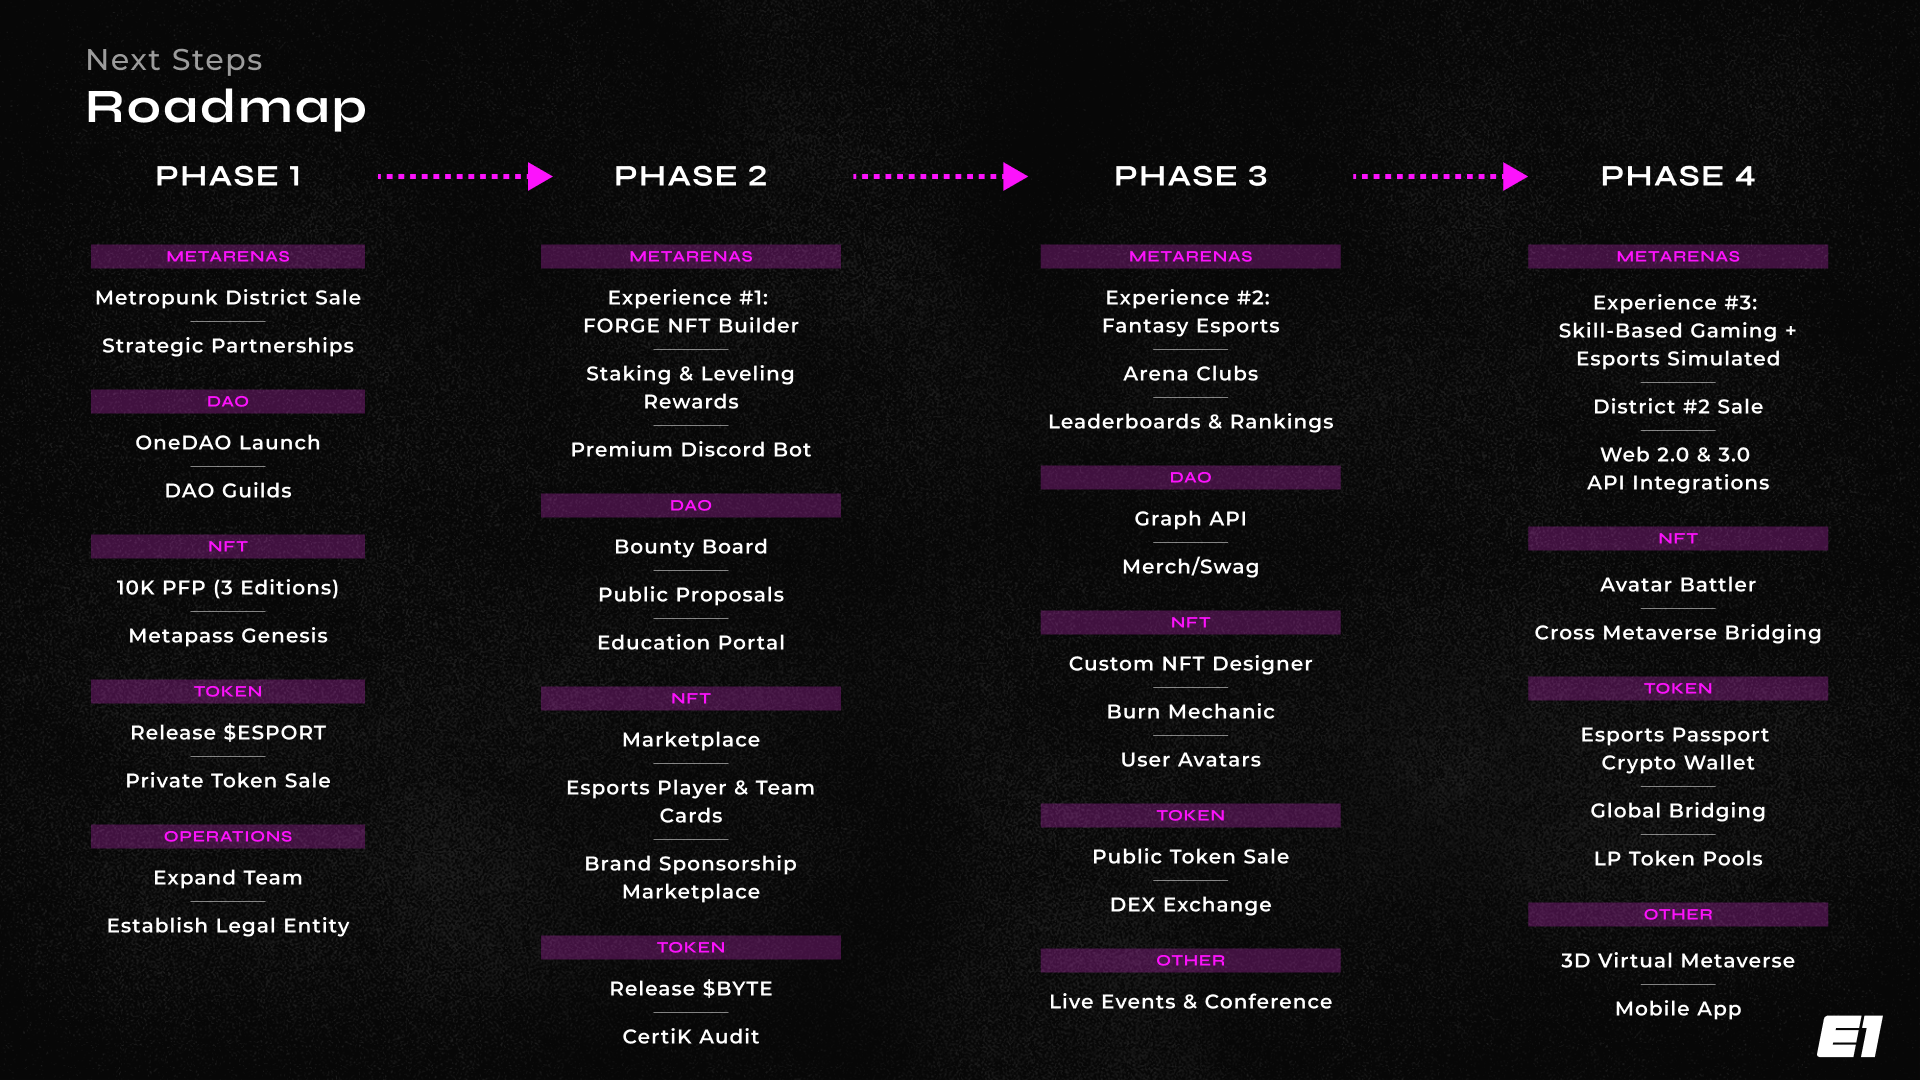
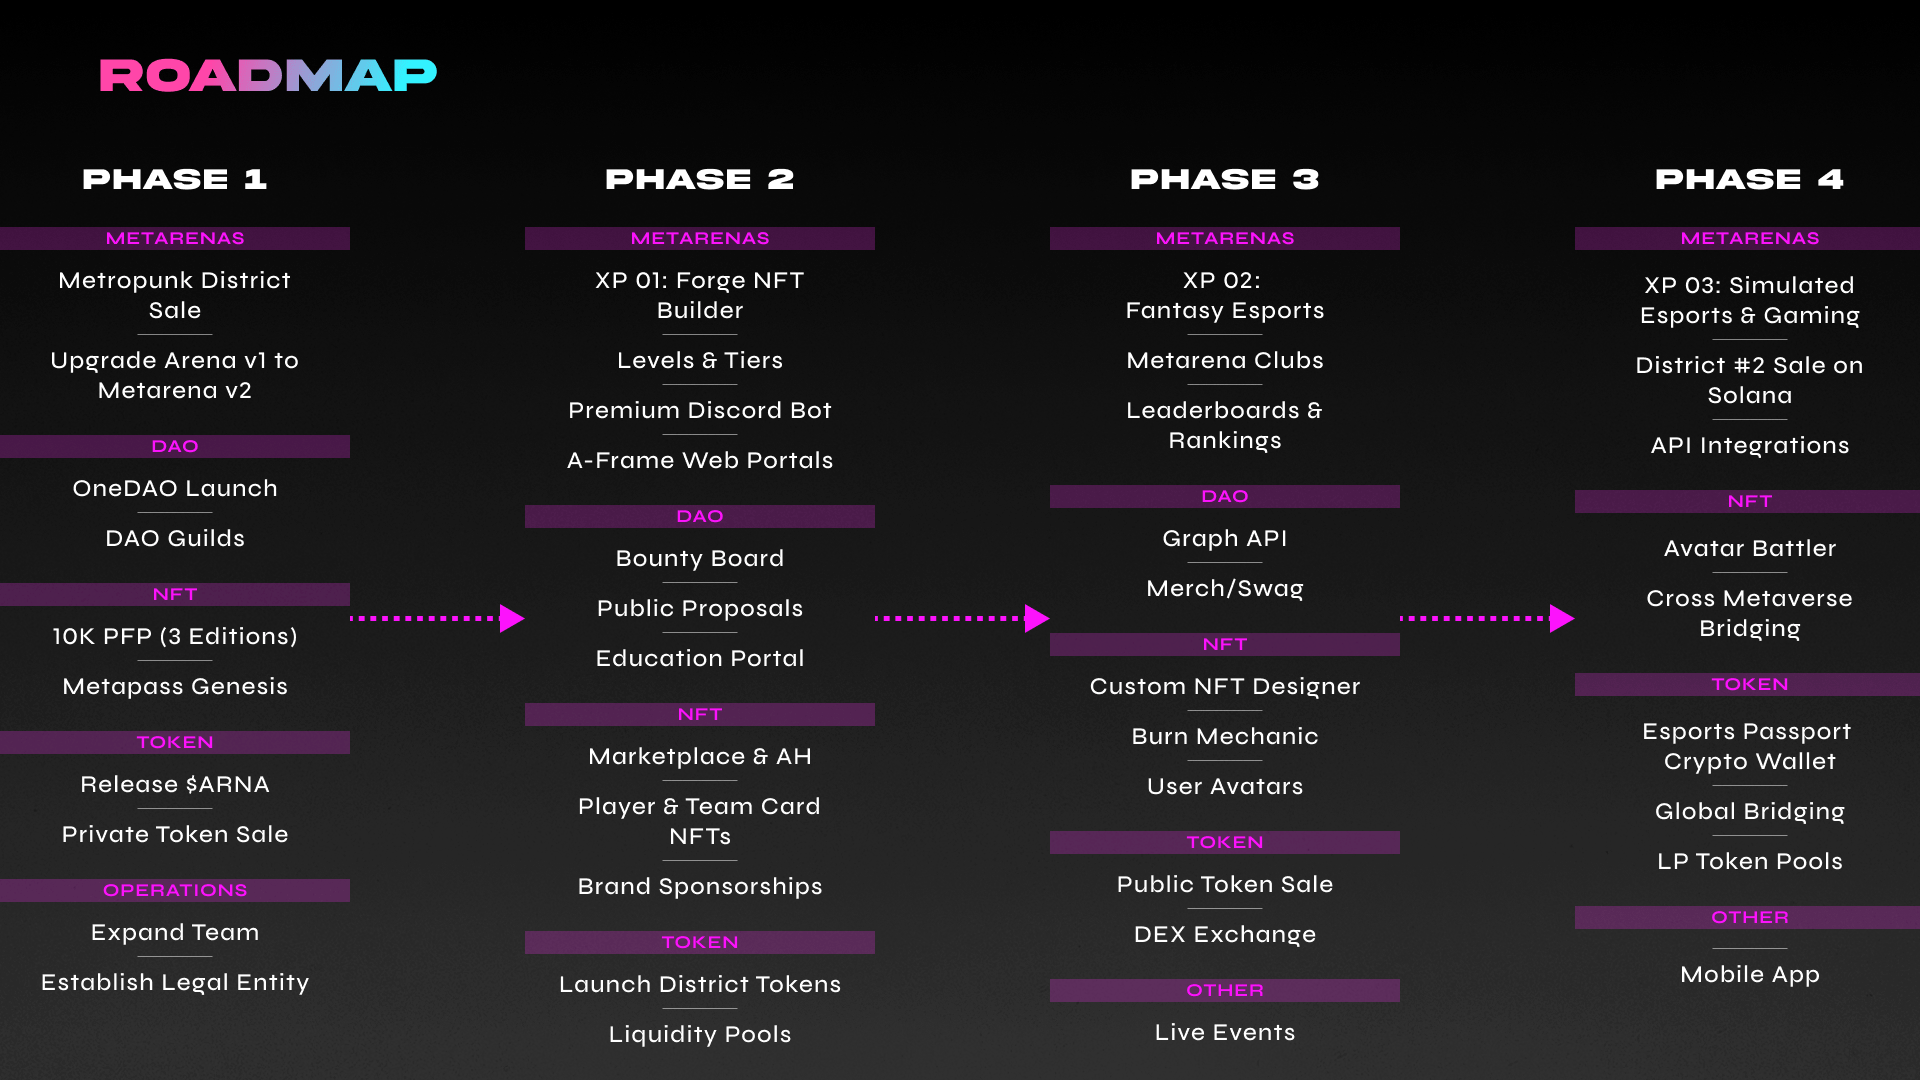
GitBook: [#692] No subject

diff --git a/economy/distribution.md b/economy/distribution.md
@@ -12,9 +12,9 @@ Distribution will occur over the course of seven years as outlined in the smart 
 | **Private Sale** |   160M   |   16%  | <p><strong>6-Month Lock-Up (10%)</strong><br>1.6%<br><strong>4.5-Year Unlock (Quarterly)</strong><br>14.4% (0.8%/qtr)</p>                     |
 | **Team**         |   160M   |   16%  | <p><strong>6-Month Lock-Up (10%)</strong><br>1.6%<br><strong>4.5-Year Unlock (Quarterly)</strong><br>14.4% (0.8%/qtr)</p>                     |
 | **Advisors**     |    30M   |   3%   | <p><strong>6-Month Lock-Up (10%)</strong><br><strong></strong>0.3%<br><strong>4.5-Year Unlock (Quarterly)</strong></p><p>2.7% (0.15%/qtr)</p> |
-| **Reserve**      |    80M   |   8%   | <p><strong>12-Month Lock-Up (10%)</strong></p><p>0.8%<br><strong>5-Year Unlock (Quarterly)</strong></p><p>7.2% (0.36%/qtr)</p>                |
 | **Ecosystem**    |   360M   |   36%  | <p><strong>6-Year Unlock (Monthly)</strong><br>36% (0.5%/mo)</p>                                                                              |
 | **DAO Treasury** |   180M   |   18%  | <p><strong>6-Year Unlock (Monthly)</strong><br>18% (0.25%/mo)</p>                                                                             |
+| **Reserve**      |    80M   |   8%   | <p><strong>12-Month Lock-Up (10%)</strong></p><p>0.8%<br><strong>5-Year Unlock (Quarterly)</strong></p><p>7.2% (0.36%/qtr)</p>                |
 
 ### Private Sale
 
@@ -22,9 +22,9 @@ Distribution will occur over the course of seven years as outlined in the smart 
 >
 > Total Private Raise: $10M
 
-Prior to the public sale in 2022, there will be a series of private sales for investors that will provide the initial capital to launch the token, develop the web and mobile ecosystems and acquire additional creators.
+Before the public sale in 2022, there will be a series of private sales for investors that will provide the initial capital to launch the token, develop the web and mobile ecosystems and acquire additional creators.
 
-Private sale investors will have a 12-month lock-up. After this period, 10% (16M) of the tokens will unlock, followed by 7.5% (12M) each quarter for 3 years.
+Private sale investors will have a 12-month lock-up. After this period, 10% (16M) of the tokens will unlock, followed by 7.5% (12M) each quarter for three years.
 
 | Name             | Phase 1 | Phase 2 | Phase 3 |
 | ---------------- | :-----: | :-----: | :-----: |
@@ -39,11 +39,11 @@ Private sale investors will have a 12-month lock-up. After this period, 10% (16M
 >
 > **Total Public Raise:** $8M (est)
 
-| Name               | Public Sale |
-| ------------------ | :---------: |
-| **Total Raise**    |     $8M     |
-| **Token Supply %** |      3%     |
-| **Token Amount**   |     30M     |
+| Name               | Details |
+| ------------------ | :-----: |
+| **Total Raise**    |   $8M   |
+| **Token Supply %** |    3%   |
+| **Token Amount**   |   30M   |
 
 ### Treasury
 
@@ -53,13 +53,13 @@ Private sale investors will have a 12-month lock-up. After this period, 10% (16M
 
 The role of the treasury is to oversee the Esports One assets that ensure maximum value is returned to owners & players. The treasury is made up of individual pools that contribute directly to the growth of the ecosystem.
 
-Treasury pools helps to ensure that the platform accrues values towards the token. The revenues generated from Esports One are configured via smart contracts and distributed across each stakeholder to provide the necessary support for arena owners and players as well as each of their underlying communities, and the resources needed to develop an exceptional user experience and expand the market globally.
+Treasury pools help to ensure that the platform accrues values towards the token. The revenues generated from Esports One are configured via smart contracts and distributed across each stakeholder to provide the necessary support for arena owners and players, as well as each of their underlying communities, and the resources needed to develop an exceptional user experience and expand the market globally.
 
 #### Arena Pool
 
 ![Arena Pool Distribution](<../.gitbook/assets/Arena Pool.png>)
 
-The arena pool is designed to ensure revenue generated from fantasy accrues value to the token. Over time, the fund will become decentralized as we implement the OneDAO that benefit the token ecosystem. This pool will be used to supply rewards for staking yield and contest rewards. Any fees resulting from buy-ins, token purchases, and marketplace purchase are distributed first to the Treasury and then reallocated back into the ecosystem.
+The arena pool is designed to ensure revenue generated from fantasy accrues value to the token. Over time, the fund will become decentralized as we implement the OneDAO that benefits the token ecosystem. This pool will be used to supply rewards for staking yield and contest rewards. Any fees resulting from buy-ins, token purchases, and marketplace purchases are distributed first to the Treasury and then reallocated back into the ecosystem.
 
 #### Grants Pool
 
@@ -67,11 +67,11 @@ By integrating our token, we will work with 3rd party game publishers to provide
 
 #### Liquidity & Staking Pool
 
-The liquidity & staking pool is designated to reward staking through yield and exclusive value and access. After the first year, governance will migrate to the DAO that will determine the mechanisms for providing token loans to liquidity providers and listing partners, ensuring a strong liquid market early on. Active owners and managers will generate additional yield based on their activity and program involvement.&#x20;
+The liquidity & staking pool is designated to reward staking through yield and exclusive value and access. After the first year, governance will migrate to the DAO to determine the mechanisms for providing token loans to liquidity providers and listing partners, ensuring a strong liquid market early on. Active owners and managers will generate additional yield based on their activity and program involvement.&#x20;
 
-The Platform Pool represents the **$ESPORT** tokens owned by the company that comes from the proceeds of sales of company-owned assets. The **$ESPORT** generated from the Company Treasury will be locked up for 12 months and then sold back into the market to pay operational expenses.
+The Platform Pool represents the **$ARNA** tokens owned by the company that comes from the proceeds of sales of company-owned assets. The **$ARNA** generated from the Company Treasury will be locked up for 12 months and then sold back into the market to pay operational expenses.
 
-### DAO
+### DAO Treasury
 
 > **150M** (16%)
 

diff --git a/economy/monetization.md b/economy/monetization.md
@@ -4,15 +4,13 @@
 
 ![](<../.gitbook/assets/Revenue Flow.png>)
 
-The $ESPORT token will provide immediate liquidity to players, creators, and investors, with the value ultimately being derived by the experiences built within our metaverse. Our focus on creating new business models in esports and gaming will set us apart from other platforms. We believe that fantasy is just the first layer of the esports metaverse.
+The $ARNA token will provide immediate liquidity to players, creators, and investors, with the value ultimately being derived by the experiences built within our metaverse. Our focus on creating new business models in esports and gaming will set us apart from other platforms. We believe that fantasy is just the first layer of the esports metaverse.
 
 <details>
 
-<summary>ARENA Sales</summary>
+<summary>Metarena Sales</summary>
 
-_50% locked-up for 6 months, then allocated to the Arena Pool_
-
-Includes both ARENA Keys & ARENA Sales. Purchases inside and out of our marketplace.&#x20;
+_50% locked up for six months, then allocated to the Arena Pool_
 
 </details>
 
@@ -60,7 +58,7 @@ Multiple subscription models that include access to premium features.
 
 * Stats Dashboards
 * Enhanced Player Hubs
-* OneBot Premium
+* Discord Premium
 
 </details>
 
@@ -73,7 +71,7 @@ _50% to Partner Pool_
 
 We will engage select brands to enable players with additional forms of engagement and opportunities for future monetization. These brands will have the chance to host their own contests, sponsor and even purchase outright their own ARENAS.
 
-* Rewards would include promotional assets, $ESPORT tokens, and potentially their own individual token.
+* Rewards would include promotional assets, $ARNA tokens, and potentially their own individual token.
 * Distribution would occur via fantasy participation, airdropped, battle passes or via our mission system.
 
 </details>
@@ -91,6 +89,6 @@ We've defined a core set of KPIs (Key Performance Indicators) that will play a s
 * Active NFT assets in circulation
 * NFT assets minted and sold
 * Average price of player cards by rarity
-* Total $BYTE in circulation
-* Price of $ESPORT
-* Amount of $ESPORT transactions
+* Total tokens in circulation
+* Price of $ARNA
+* Amount of $ARNA transactions

diff --git a/resources/roadmap.md b/resources/roadmap.md
@@ -6,9 +6,11 @@ description: Work in progress
 
 ![](../.gitbook/assets/Roadmap.png)
 
+<figure><img src="../.gitbook/assets/Roadmap Overview.png" alt=""><figcaption></figcaption></figure>
+
 ## Supporting New Game Titles <a href="#how-we-onboard-new-titles" id="how-we-onboard-new-titles"></a>
 
-Expanding into new game titles is relatively formulaic and comes down to long-term sustainability. We are currently adding Valorant and Counterstrike, followed by Rocket League as well as are in talks with a number of web3 Esports Game Titles.&#x20;
+Expanding into new game titles is relatively formulaic and comes down to long-term sustainability. We are currently adding Valorant and Counterstrike, followed by Rocket League, and are in talks with several Web3 Esports Game Titles.&#x20;
 
 Following the process of approving a new game title to expand into, we begin the process of data collection.
 
@@ -22,7 +24,7 @@ Our CV models are developed using Python, and then once we meet a specific accur
 
 Because of how we use GraphQL to insulate consumers of data from our DB schema, we take an iterative approach to building the stats interface for a game by continuously expanding it with new stats values as they become available.
 
-![](<../.gitbook/assets/New Stats Onboarding.png>)
+![](<../.gitbook/assets/Game Onboarding.png>)
 
 ### Stats Tiers
 
